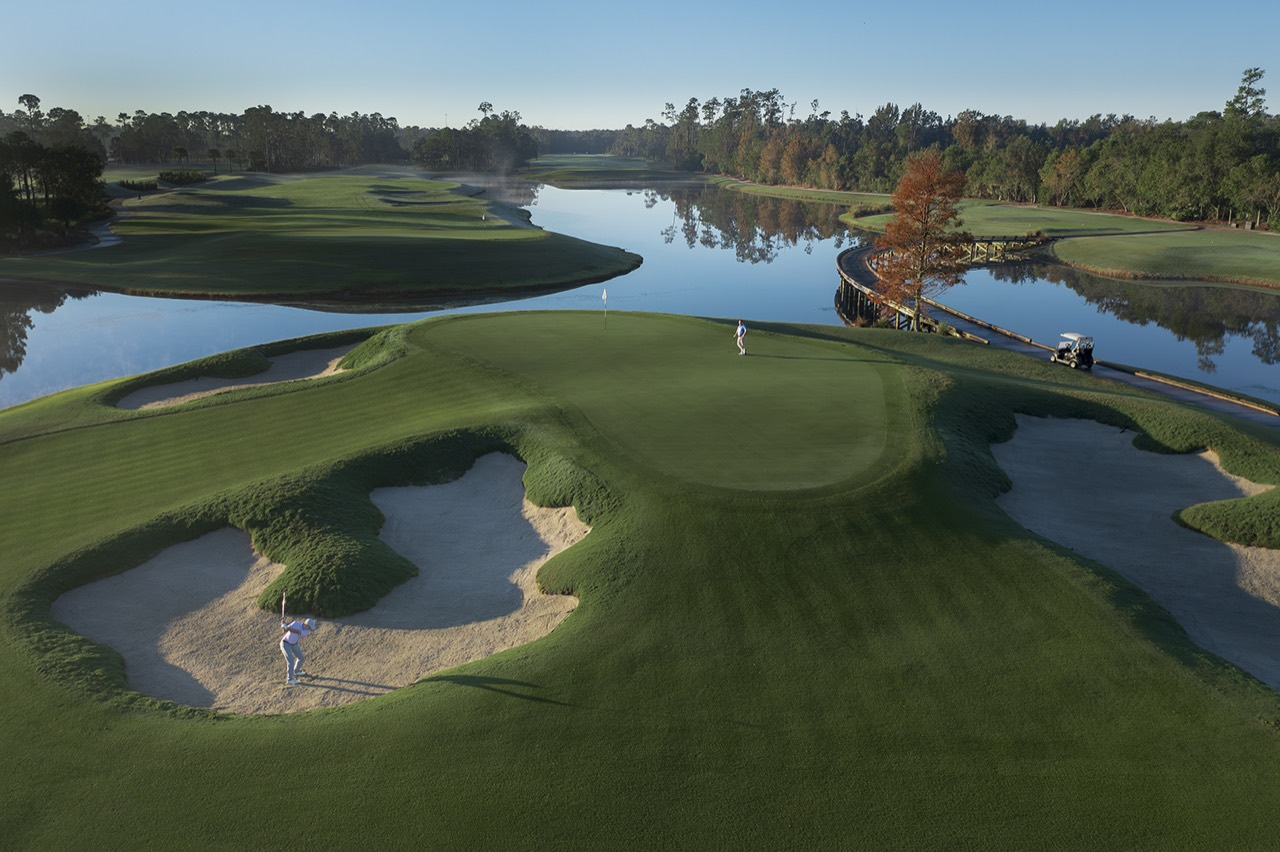
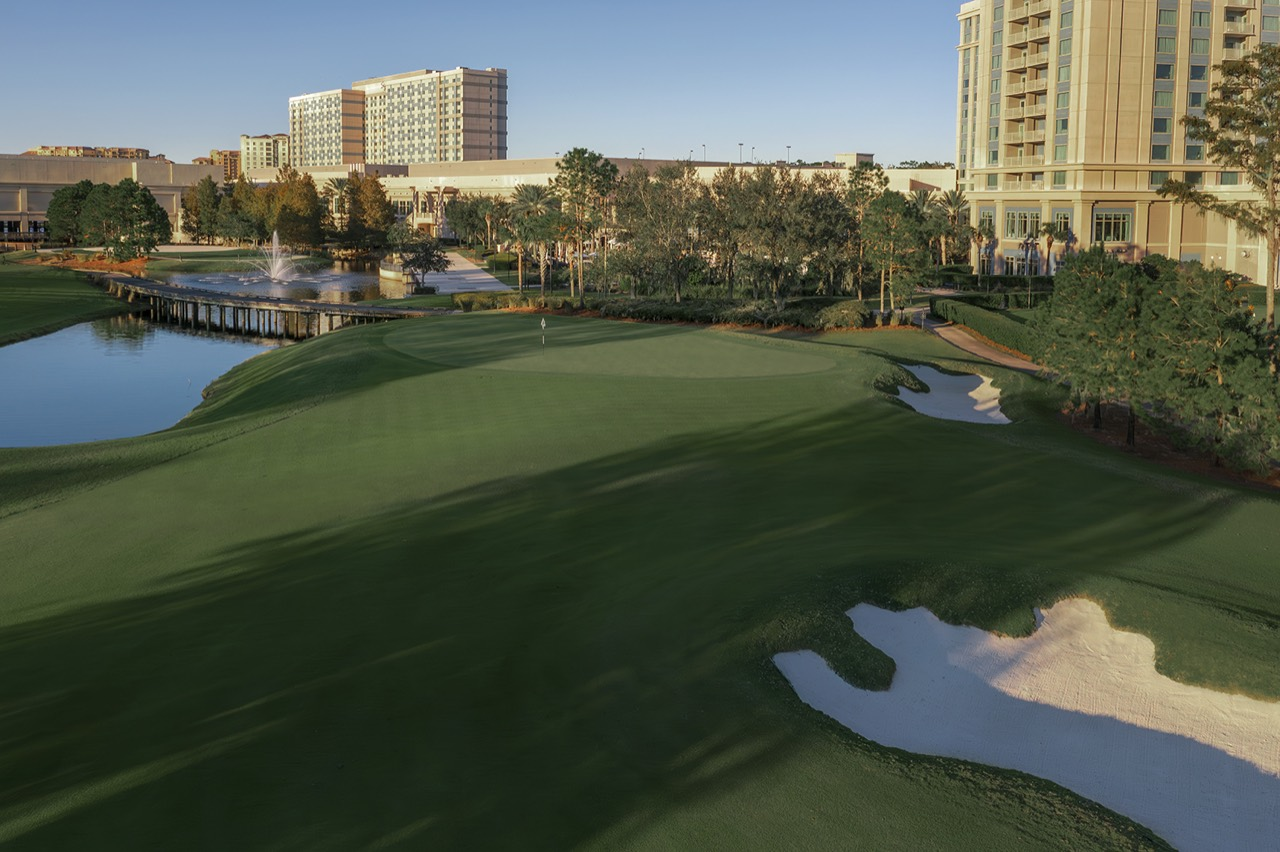
Remove Waldorf Astoria photos 1, 5, 6, 7

diff --git a/src/packages.ts b/src/packages.ts
@@ -155,7 +155,7 @@ const PHOTO_COUNTS: Record<string, number> = {
   "boulder-creek": 4,
   "arroyo-red-rock": 0,
   "disney-magnolia": 7,
-  "waldorf-astoria": 7,
+  "waldorf-astoria": 3,
   "crooked-cat": 7,
   "shingle-creek": 6,
   "panther-lake": 7,